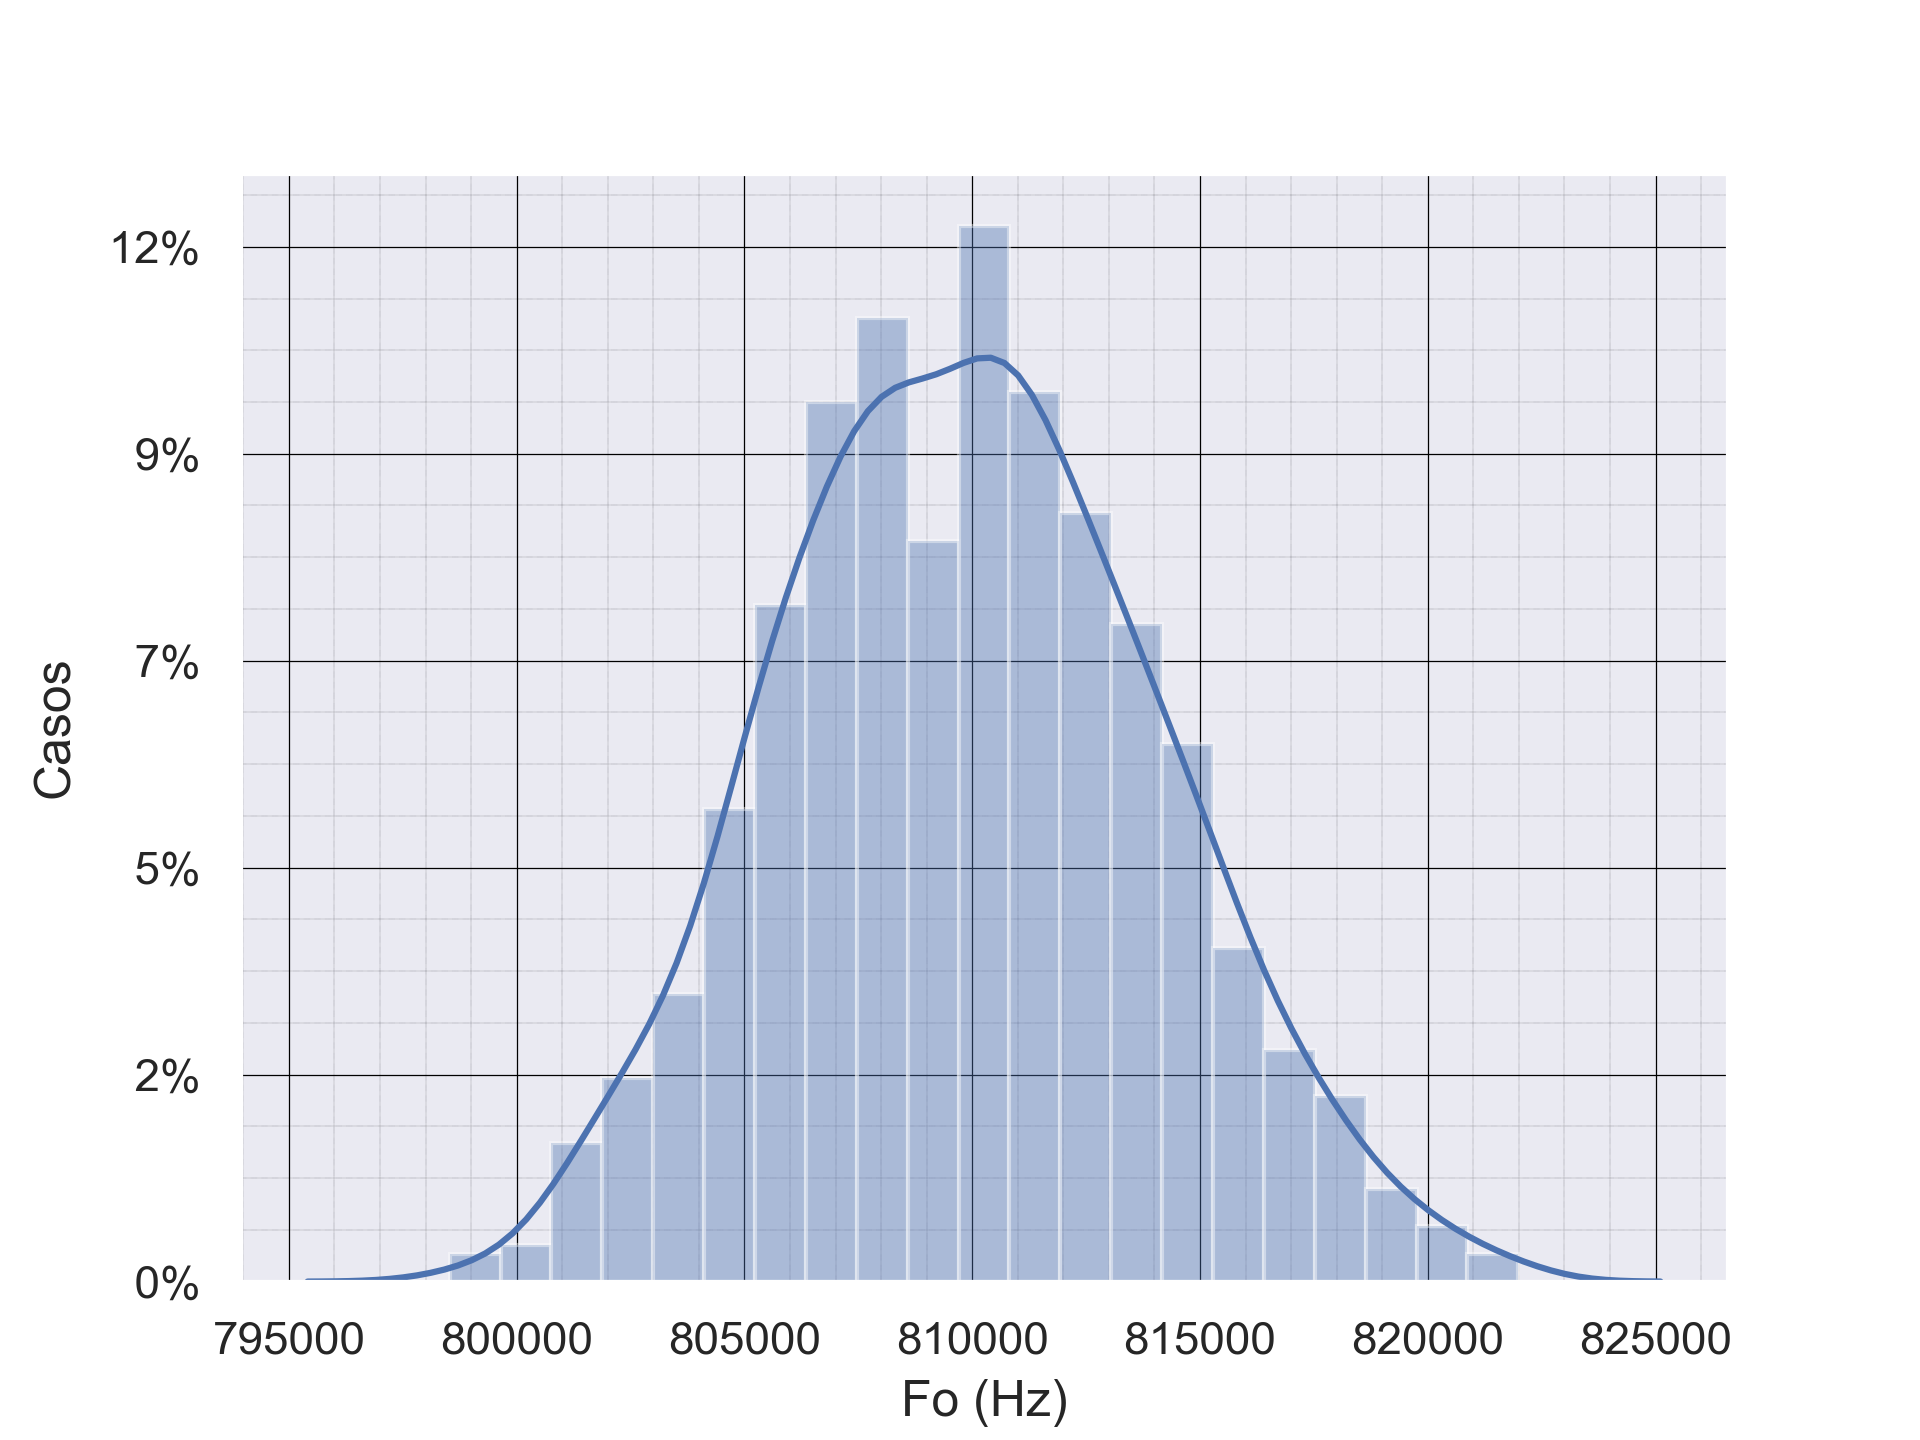
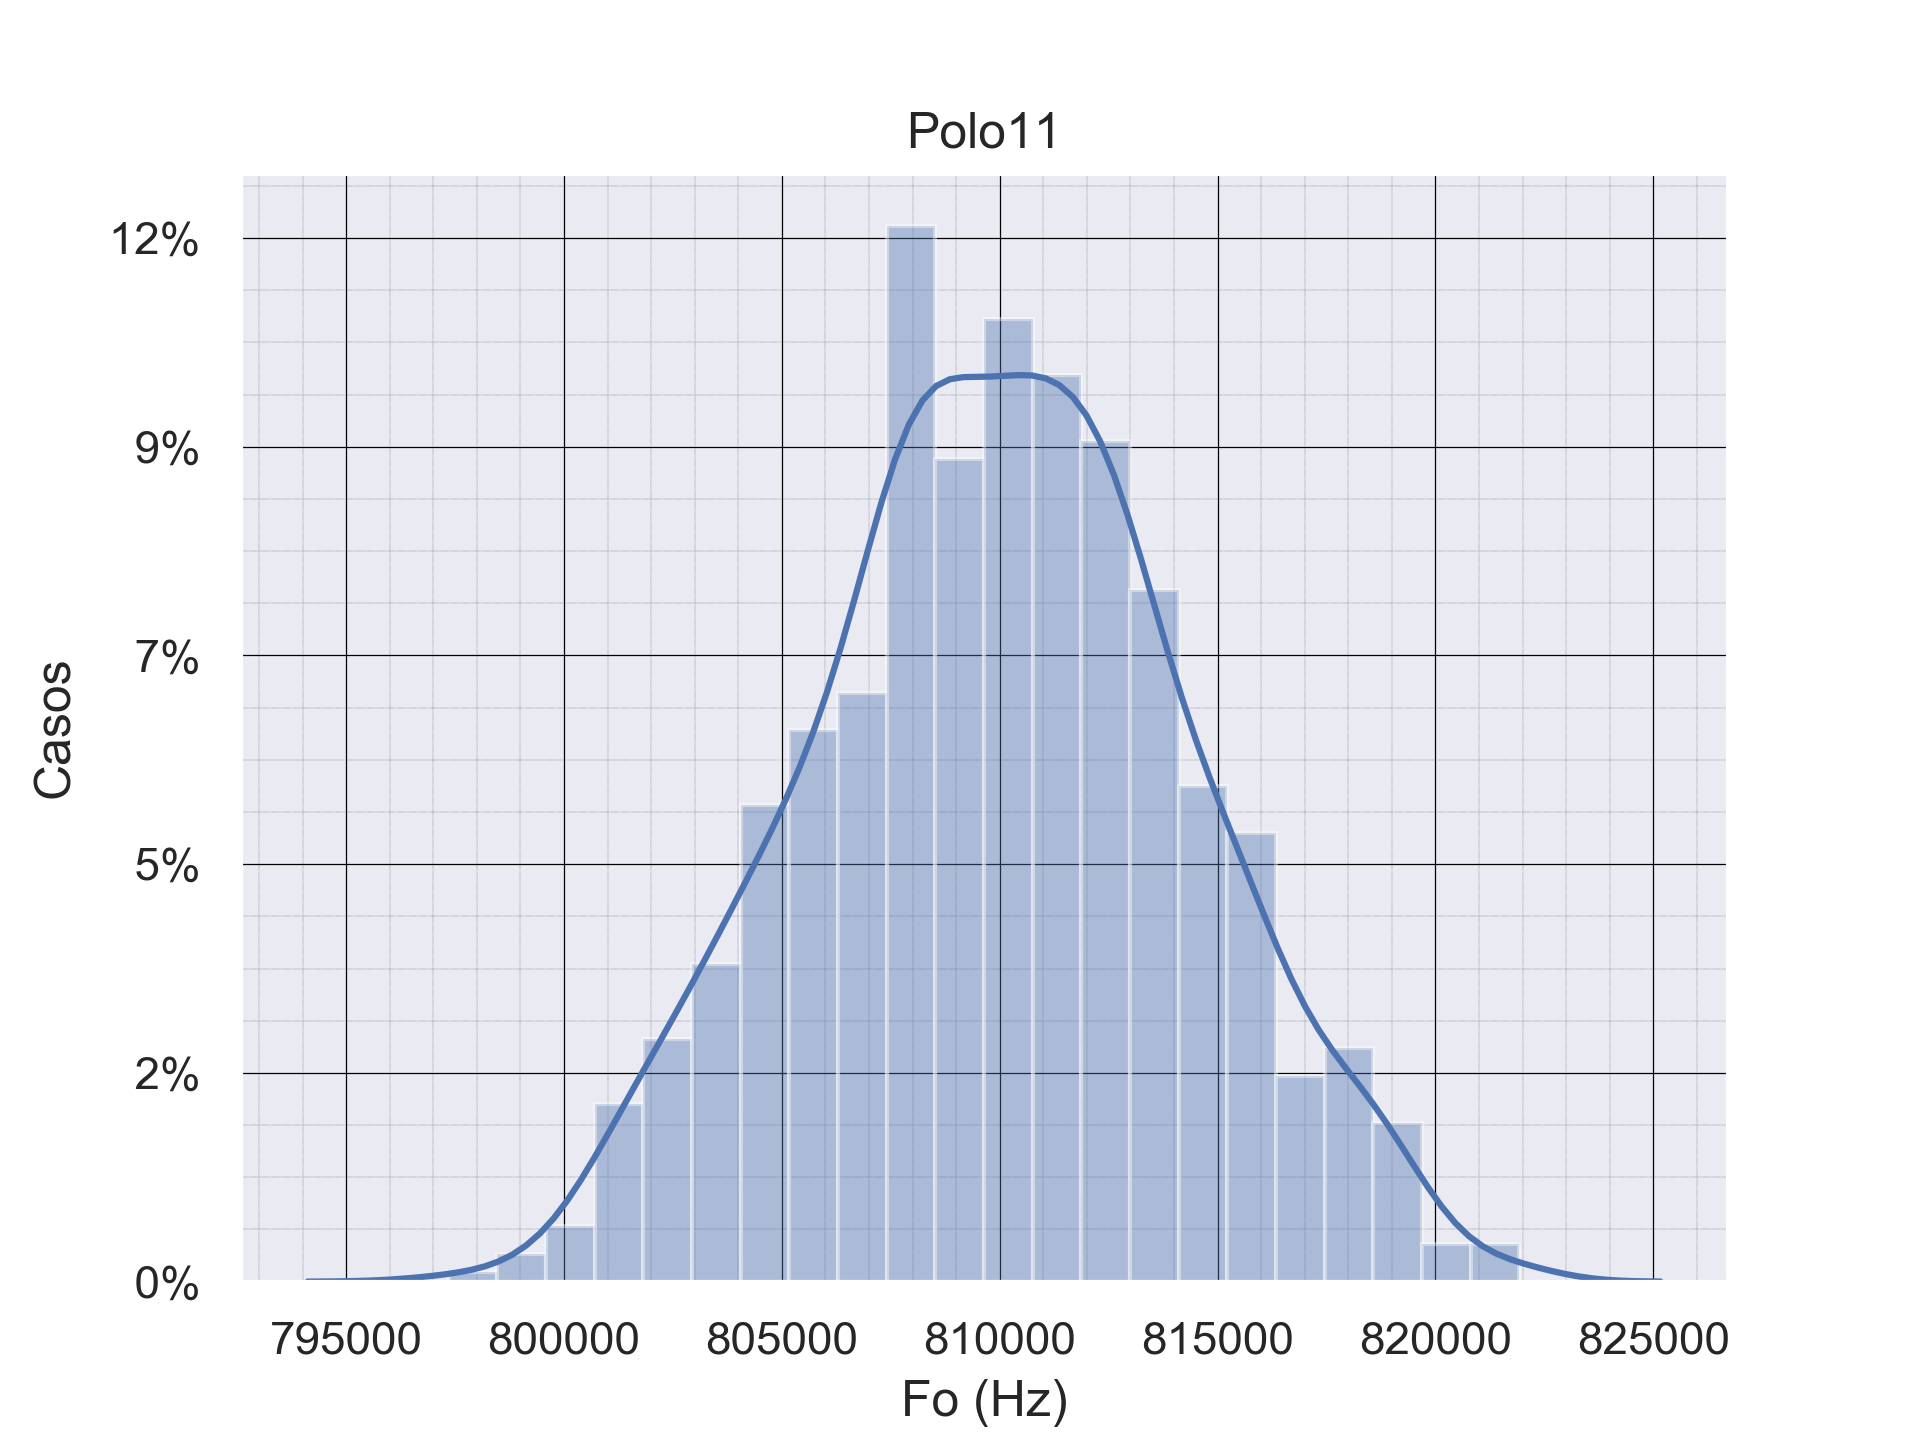
add

diff --git a/TP5/histogramas/histograma_joaco.py b/TP5/histogramas/histograma_joaco.py
@@ -102,6 +102,11 @@ def plot_hist(circuit_id, mode, sing_id, width, width2):
     # plt.xlabel("Fo (Hz)")
     #
     # plt.ylabel("Q")
+    if str(mode) == "poles":
+        textmode = "Polo"
+    else:
+        textmode = "Cero"
+    plt.title(textmode + str(sing_id) + str(circuit_id))
 
     make_histogram(variable="Fo",
                    unidad="Hz",
@@ -109,11 +114,12 @@ def plot_hist(circuit_id, mode, sing_id, width, width2):
                    filename="joaco/histograma_joaco_w0_"+str(mode)+"_"+str(sing_id) + str(circuit_id) +".png",
                    bar_width=width)
 
-    # make_histogram(variable="Q",
-    #                unidad="Sin unidad",
-    #                data=data["q"],
-    #                filename="joaco/histograma_joaco_q_" + str(mode) + "_" + str(sing_id) + str(circuit_id) + ".png",
-    #                bar_width=width2)
+    plt.title(textmode + str(sing_id) + str(circuit_id))
+    make_histogram(variable="Q",
+                   unidad="Sin unidad",
+                   data=data["q"],
+                   filename="joaco/histograma_joaco_q_" + str(mode) + "_" + str(sing_id) + str(circuit_id) + ".png",
+                   bar_width=width2)
 
 
 plot_hist(circuit_id=0,
@@ -139,3 +145,28 @@ plot_hist(circuit_id=1,
           sing_id=1,
           width=(128110-127924)*2*pi,
           width2=4.08722-4.07296)
+
+
+# plot_hist(circuit_id=0,
+#           mode="zeros",
+#           sing_id=0,
+#           width = (212850-212550)*2*pi,
+#           width2= 0.780689-0.776144)
+#
+# plot_hist(circuit_id=0,
+#           mode="zeros",
+#           sing_id=1,
+#           width = (213850-213550)*2*pi,
+#           width2 = 0.777032-0.772392)
+#
+# plot_hist(circuit_id=1,
+#           mode="zeros",
+#           sing_id=0,
+#           width=(128375-128200)*2*pi,
+#           width2=4.090-4.076)
+#
+# plot_hist(circuit_id=1,
+#           mode="zeros",
+#           sing_id=1,
+#           width=(128110-127924)*2*pi,
+#           width2=4.08722-4.07296)
